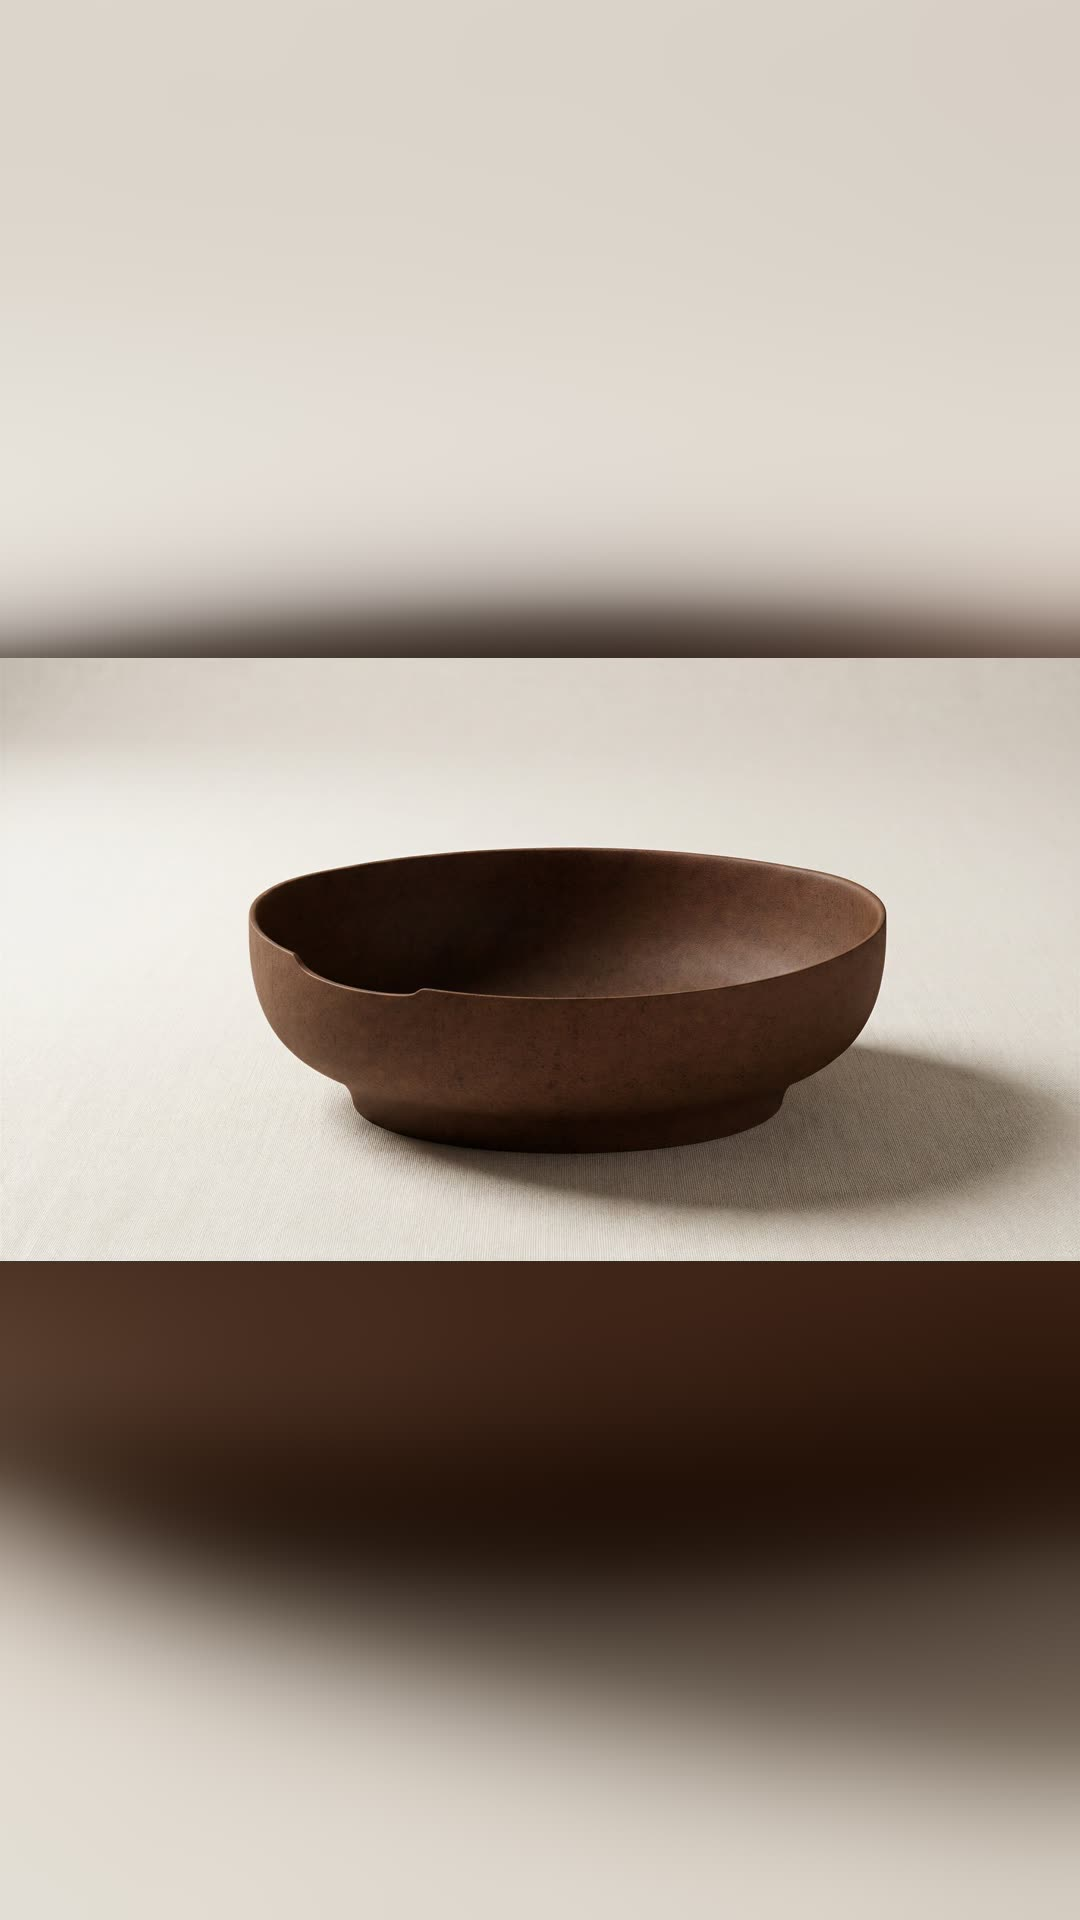
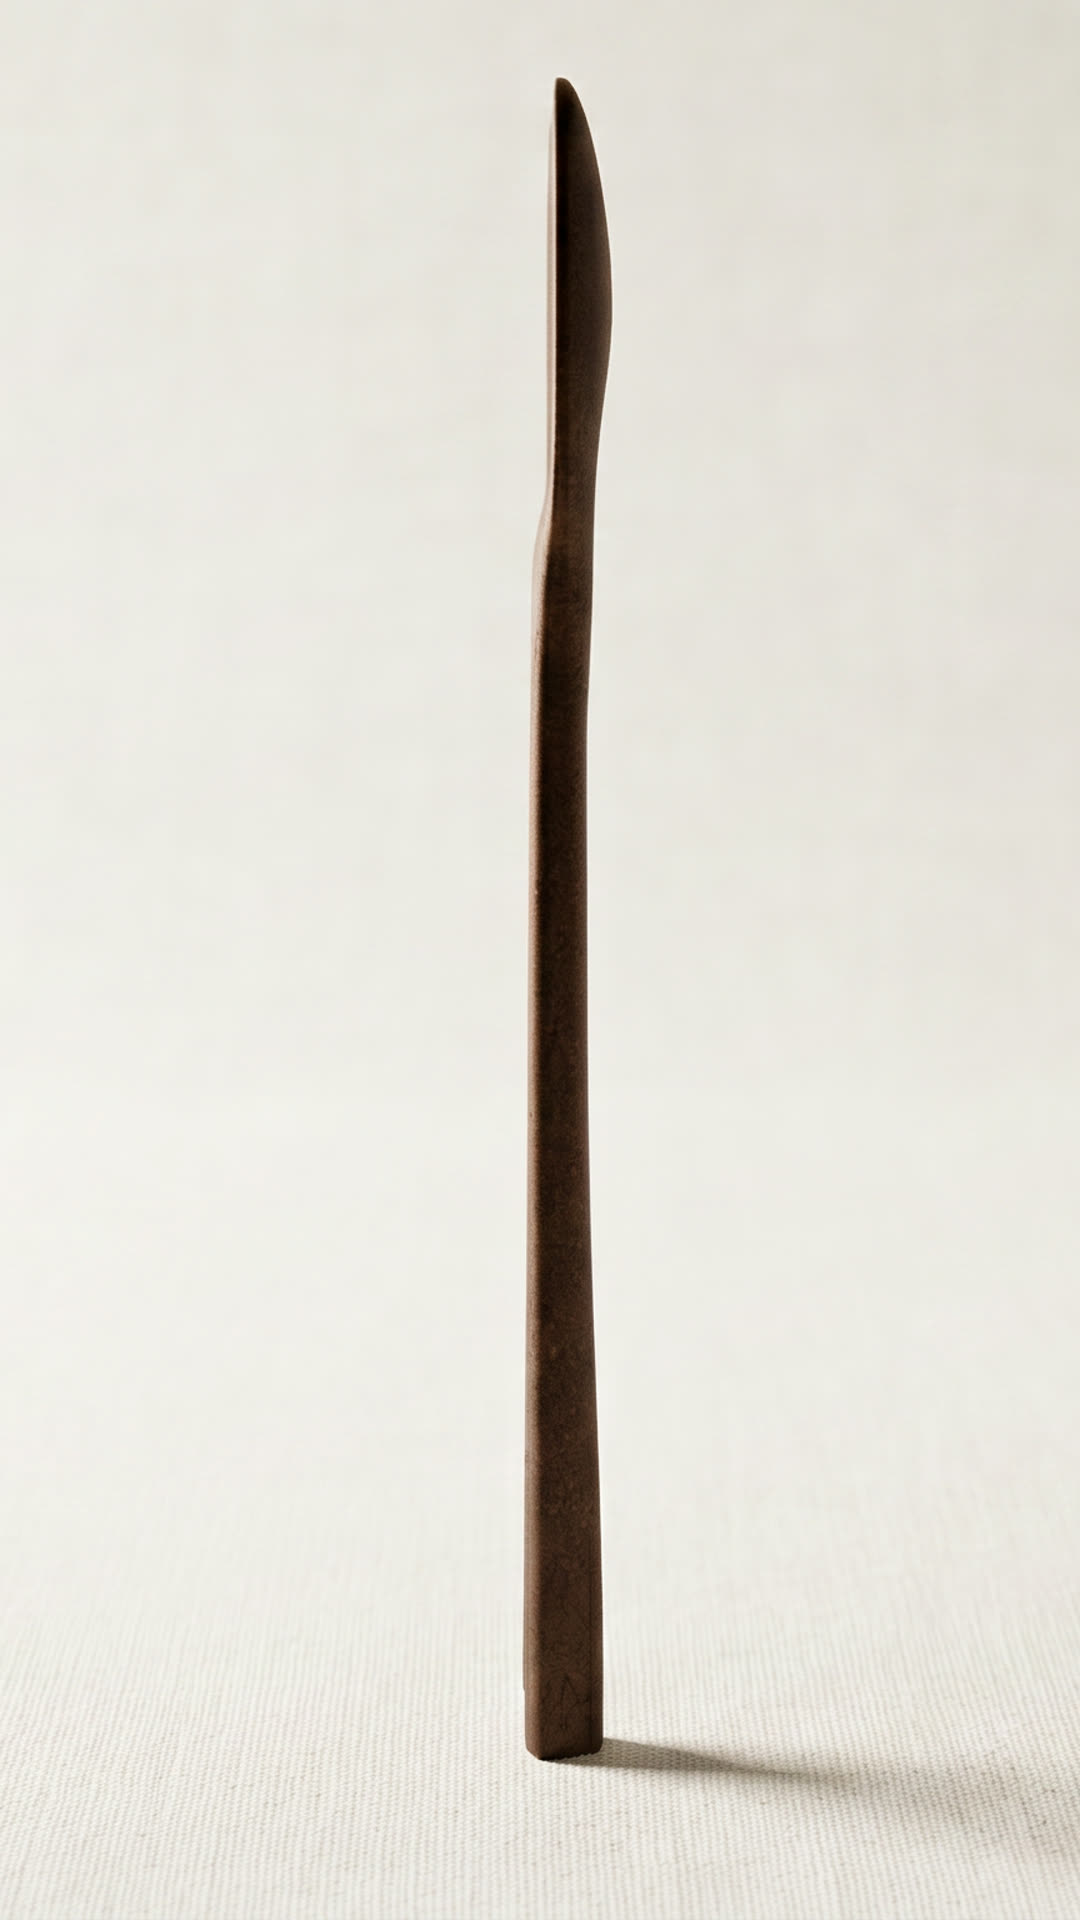
Kiaro: landscape collection tiles and portrait server crop for mobile hero, drop extended backgrounds

diff --git a/kiaro.html b/kiaro.html
@@ -162,12 +162,12 @@ section{padding:clamp(48px,8vh,90px) 0}
     <p class="r">Kitchen tools, storage and serving — the categories the material study showed people trust the material in.</p>
   </div>
   <div class="grid3">
-    <div class="r"><div class="tile"><img src="images/kiaro-bowl-tile.jpg" alt="Kiaro salad bowl" style="position:absolute;inset:0;width:100%;height:100%;object-fit:cover" ></div><div class="label" style="margin-top:.6rem">Salad Bowl</div></div>
-    <div class="r"><div class="tile"><img src="images/kiaro-servers-tile.jpg" alt="Kiaro salad servers" style="position:absolute;inset:0;width:100%;height:100%;object-fit:cover" ></div><div class="label" style="margin-top:.6rem">Salad Servers</div></div>
-    <div class="r"><div class="tile"><img src="images/kiaro-board-tile.jpg" alt="Kiaro cutting board" style="position:absolute;inset:0;width:100%;height:100%;object-fit:cover" ></div><div class="label" style="margin-top:.6rem">Cutting Board</div></div>
-    <div class="r"><div class="tile"><img src="images/kiaro-holder.jpg" alt="Kiaro utensil holder" style="position:absolute;inset:0;width:100%;height:100%;object-fit:cover" ></div><div class="label" style="margin-top:.6rem">Utensil Holder</div></div>
-    <div class="r"><div class="tile"><img src="images/kiaro-jars.jpg" alt="Kiaro storage canisters" style="position:absolute;inset:0;width:100%;height:100%;object-fit:cover" ></div><div class="label" style="margin-top:.6rem">Storage Canisters</div></div>
-    <div class="r"><div class="tile"><img src="images/kiaro-tray.jpg" alt="Kiaro serving tray" style="position:absolute;inset:0;width:100%;height:100%;object-fit:cover" ></div><div class="label" style="margin-top:.6rem">Serving Tray</div></div>
+    <div class="r"><div class="tile" style="aspect-ratio:16/9"><img src="images/kiaro-thumb.jpg" alt="Kiaro salad bowl" style="position:absolute;inset:0;width:100%;height:100%;object-fit:cover" ></div><div class="label" style="margin-top:.6rem">Salad Bowl</div></div>
+    <div class="r"><div class="tile" style="aspect-ratio:16/9"><img src="images/kiaro-servers.jpg" alt="Kiaro salad servers" style="position:absolute;inset:0;width:100%;height:100%;object-fit:cover" ></div><div class="label" style="margin-top:.6rem">Salad Servers</div></div>
+    <div class="r"><div class="tile" style="aspect-ratio:16/9"><img src="images/kiaro-board.jpg" alt="Kiaro cutting board" style="position:absolute;inset:0;width:100%;height:100%;object-fit:cover" ></div><div class="label" style="margin-top:.6rem">Cutting Board</div></div>
+    <div class="r"><div class="tile" style="aspect-ratio:16/9"><img src="images/kiaro-holder.jpg" alt="Kiaro utensil holder" style="position:absolute;inset:0;width:100%;height:100%;object-fit:cover" ></div><div class="label" style="margin-top:.6rem">Utensil Holder</div></div>
+    <div class="r"><div class="tile" style="aspect-ratio:16/9"><img src="images/kiaro-jars.jpg" alt="Kiaro storage canisters" style="position:absolute;inset:0;width:100%;height:100%;object-fit:cover" ></div><div class="label" style="margin-top:.6rem">Storage Canisters</div></div>
+    <div class="r"><div class="tile" style="aspect-ratio:16/9"><img src="images/kiaro-tray.jpg" alt="Kiaro serving tray" style="position:absolute;inset:0;width:100%;height:100%;object-fit:cover" ></div><div class="label" style="margin-top:.6rem">Serving Tray</div></div>
   </div>
 </section>
 